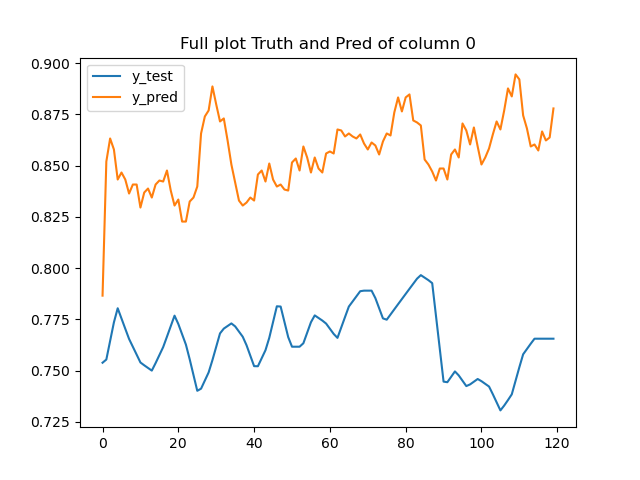
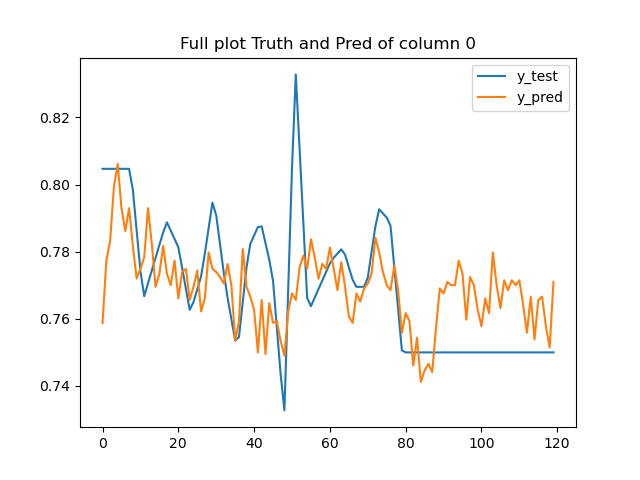
Improvements on patients check 11k_reader

diff --git a/train_final.py b/train_final.py
@@ -36,7 +36,7 @@ def train(total_epochs=250,
     :return:
     """
     warnings.filterwarnings("ignore")
-         
+
     with mlflow.start_run():  # separate run for each NN size and configuration
         
         mlflow.tensorflow.autolog()  # automatically starts logging LOSS, metric and models
@@ -54,7 +54,9 @@ def train(total_epochs=250,
         data_list = tl.unique(data_list) # sorts out multiple occurences
         # data, samplerate = tl.memorize("./data/training.h5", data_list)
         # data, samplerate = tl.memorize_MIT_data(data_list, length_item, 'training')
-        data, data_test, samplerate = tl.Icentia_memorize(100, length_item, data_list)
+        amount = 1000 # number of training examples
+        data, data_test, samplerate = tl.Icentia_memorize(amount, length_item, data_list)
+        mlflow.log_param("number of training examples", amount)
         # exit()
         
         # readjust length_item according to samplerate
@@ -123,14 +125,14 @@ def train(total_epochs=250,
         #                 "ECG_output": 'MAE',
         #                 }
         # Callback
-        escb = EarlyStopping(monitor='MAE', patience=min(int(total_epochs/10),50), min_delta=0.0005, mode="min") # 'Tacho_output_MAE' 'ECG_output_MAE' 'binary_accuracy'
-        # escb = EarlyStopping(monitor='Symbols_output_sparse_categorical_accuracy', patience=min(int(total_epochs/5),50), min_delta=0.001, mode="max", restore_best_weights=True)
+        # escb = EarlyStopping(monitor='MAE', patience=min(int(total_epochs/10),50), min_delta=0.0005, mode="min") # 'Tacho_output_MAE' 'ECG_output_MAE' 'binary_accuracy'
+        escb = EarlyStopping(monitor='Symbols_output_sparse_categorical_accuracy', patience=min(int(total_epochs/5),50), min_delta=0.001, mode="max", restore_best_weights=True) # Symbols_output_
         
         # Train model on training set
         print("Training model...")
         model.fit(X,  # sequence we're using for prediction
                   y,  # sequence we're predicting
-                batch_size=int(np.shape(X)[0] / 2**3), # how many samples to pass to our model at a time
+                batch_size= 2**9,# int(np.shape(X)[0] / 2**3), # how many samples to pass to our model at a time
                 callbacks=[escb], # callback must be in list, otherwise mlflow.autolog() breaks
                 epochs=total_epochs)
         
@@ -207,7 +209,7 @@ def train(total_epochs=250,
             for k in range(len(y_pred)):
                 # Full visuzilation
                 plt.figure(k)
-                plt.title(concat("Truth and Pred of column ", str(k)))
+                plt.title(concat("Truth and Pred of column " + str(k), " of example " + str(l)))
                 plt.plot(list(range(len(y_test[k][0,:]))), y_test[k][example,:])
                 plt.plot(list(range(len(y_pred[k][0,:]))), y_pred[k][example,:])
                 if "ECG" in out_types[k]:
@@ -218,7 +220,7 @@ def train(total_epochs=250,
                 plt.close()
                 # Zoom visualization
                 plt.figure(k)
-                plt.title(concat("Truth and Pred of column ", str(k)))
+                plt.title(concat("Truth and Pred of column " + str(k), " of example " + str(k)))
                 plt.plot(list(range(len(y_test[k][0,-2*samplerate:]))), y_test[k][example,-2*samplerate:])
                 plt.plot(list(range(len(y_pred[k][0,-2*samplerate:]))), y_pred[k][example,-2*samplerate:])
                 if "ECG" in out_types[k]:
@@ -227,4 +229,11 @@ def train(total_epochs=250,
                 name = "./plots/Plot-Col-" + str(k) + "-example-Zoom-" + str(l)
                 plt.savefig(name)
                 plt.close()
-        
+                
+            # plot Input
+            plt.figure(2)
+            plt.title(concat("Input of example ", str(l)))
+            plt.plot(list(range(len(X_test[0,:]))), X_test[example,:])
+            name = "./plots/Plot-Input-example-" + str(l)
+            plt.savefig(name)
+            plt.close()

diff --git a/Icentia11k_reader.py b/Icentia11k_reader.py
@@ -42,6 +42,7 @@ def download(amount):
     
     print("Preparing list of segments ...")
     list_segments = set() # list of all segments
+    list_patients = set() # set of all patients
     # Loading ever expanding set of existing segments
     if os.path.exists(local_path + "set_records.txt"):
         print("Load set records ...")
@@ -49,7 +50,7 @@ def download(amount):
             lines = f.readlines()
             for r in range(len(lines)):
                 list_segments.add(lines[r].rstrip('\n'))
-    
+                list_patients.add(lines[r][:-5].rstrip('\n'))
     print("Downloading training files ...")
     print("Listing available segments of interest ...")
     check_download = True
@@ -65,7 +66,8 @@ def download(amount):
                 if not(file_path in file_list_training): # check if file is already selected
                     # Download list of available segments of patient
                     # Check if table of segments for patient is already downloaded. Saving time in the long run
-                    if any([True for s in list_segments if '/p' + f"{patient_id:05d}" in s]):
+                    # if any([True for s in list_segments if '/p' + f"{patient_id:05d}" in s]):
+                    if 'p' + f"{patient_id:05d}" in list_patients:
                         print("Already downloaded")
                     else:
                         # print("Fresh download")
@@ -81,6 +83,7 @@ def download(amount):
                             records = f.readlines()
                             for r in range(len(records)):
                                 list_segments.add(records[r].rstrip('\n'))
+                                list_patients.add(lines[r][:-5].rstrip('\n'))
                     if 'p' + f"{patient_id:05d}" + '_s' + f"{ecg_id:02d}" in list_segments: # check if selected segment exists in records
                         file_list_training.append(file_path)
                         # print("Segment found")
@@ -208,6 +211,8 @@ def load_local(amount):
 
     print("Listing available segments of interest ...")
     file_list_test = []
+    counter = 0
+    missing_test = 0 # counter for how many test patients couldnt be found
     for n in range(int(max([1,amount*0.2]))):
         check = True
         while check: # loop until unused path found
@@ -218,6 +223,12 @@ def load_local(amount):
                 if not(any([file_path[:6] in path for path in file_list_training])): # check if patient is already in training set
                     file_list_test.append(file_path)
                     check = False
+                else:
+                    counter += 1
+                if counter > 999: # check if list of non-training patients is exhausted
+                    missing_test += 1
+                    print("No patients left for test. Need ", str(int(amount*0.2-missing_test)), " more test patients")
+                    break
     
     return file_list_training, file_list_test
 
@@ -314,7 +325,7 @@ def load_clean_data(list_training, length_item):
     with mp.Pool(mp.cpu_count()) as pool:
         results = pool.starmap(snippet_search, [(file, length_item) for file in list_training])
     
-    for n in range(np.shape(results)[0]): # loop over outputs of snippet search
+    for n in range(len(results)): # loop over outputs of snippet search
         for m in range(np.shape(results[n][0])[0]):
             train_data.append(results[n][0][m])
             train_beats.append(results[n][1][m])
@@ -384,6 +395,6 @@ def snippet_search(file, length_item):
                 train_data.append(ecg[offset:offset+500+int(length_item)]/50)
                 train_beats.append(beats)
                 train_BBI.append(BBI)
-                offset += int(5*60*250)
+                offset += int(length_item)
         offset += int(10*250)
     return train_data, train_beats, train_BBI

diff --git a/train_lib_final.py b/train_lib_final.py
@@ -165,7 +165,10 @@ def Icentia_memorize(amount, length_item, data_list):
     os.chdir(dname)
     local_path = os.getcwd() + '/data/Icentia11k/'
     
-    # list_training, list_test = Ird.download(amount) # download files of ecgs and annotations
+    # for n in range(5):
+    #     list_training, list_test = Ird.download(amount) # download files of ecgs and annotations
+    #     del list_training, list_test
+    # exit()
     list_training, list_test = Ird.load_local(amount) # list local files of ecgs and annotations
     
     print("Reading ecg and annotations ...")
@@ -295,7 +298,10 @@ def constr_feat(data, NAME, length_item):
         for lag in NAME[key]: # loop over lags and options found under key
             feat_number += 1
             # check if data is timeseries, distribution or parameter
-            print("Shape of source data for feature ", key, " : ", np.shape(data[key]))
+            try:
+                print("Shape of source data for feature ", key, " : ", np.shape(data[key]))
+            except:
+                pass
             print("feature: lag ", int(lag[4:]), "at column ", feat_number) # lag is in given in samples / datapoints
             
             if key == 'ECG': # check if feature is ECG timeseries
@@ -434,12 +440,13 @@ def feat_check(X,y):
     Plots the different features of input and output in one diagramm
     Helps with deciding if features are reasonable and correct
     """
+    example = []
     for k in range(5):
-        example = min(k, len(X[:,0]))
+        example.append(np.random.randint(len(X[:,0])))
         # print(np.shape(X))
         plt.figure(1)
         # plt.title("ECG with 5 minute duration")
-        plt.plot(list(range(len(X[k,:]))), X[k,:])
+        plt.plot(list(range(len(X[k,-2000:]))), X[k,-2000:])
         plt.savefig("Test-X-" +str(k) +".png")
         plt.close()
     
@@ -448,13 +455,13 @@ def feat_check(X,y):
             plt.figure(2+n+len(y)*k)
             if isinstance(y[n], list):
                 # example = np.random.randint(len(y[n][:]))
-                example = min(k, len(y[n][:]))
-                data = y[n][example]
+                # example = min(k, len(y[n][:]))
+                data = y[n][example[k]]
             else:
                 # print(np.shape(y[n]))
                 # example = np.random.randint(len(y[n][:,0]))
-                example = min(k, len(y[n][:,0]))
-                data = y[n][example,:]
+                # example = min(k, len(y[n][:,0]))
+                data = y[n][example[k],:]
             plt.plot(list(range(len(data))), data)
             plt.title("Test-y-column-" + str(n) + "-example-"+ str(example))
             plt.savefig("Test-y-" + str(n) + "-example-"+ str(k) +".png")
@@ -744,7 +751,7 @@ def calc_symboldynamics(BBI): #beat_to_beat_intervals, a, mode
     for row in range(len(BBI[:])): # loop over examples
         # insert one-dim array from list into matlab function
         # function returns us symbols and words as output
-        result = engine.calc_symboldynamics(BBI[row], 0.01, "movdiff", nargout=2)
+        result = engine.calc_symboldynamics(BBI[row], 0.01, "movdiff", nargout=2) # vielleicht mit alpha 0.05 probieren
         flatten = [result[1][n][0] for n in range(len(result[1]))] # flatten the list of matlab.doubles
         # print(np.array(flatten,dtype=int))
         symbols.append(np.array(flatten,dtype=int))

diff --git a/laboratory.py b/laboratory.py
@@ -13,7 +13,7 @@ from train_final import train
 
 
 # Set experiment active or create new one
-experiment = mlflow.set_experiment("Models for Forschungsbeleg - Tacho + Symbol - Icentia") # Conv-AE-LSTM-P good
+experiment = mlflow.set_experiment("Models for Forschungsbeleg - Tacho - Icentia") # Conv-AE-LSTM-P good
 print("Experiment_id: {}".format(experiment.experiment_id))
 
 # Starting a Run by calling train.py
@@ -31,7 +31,7 @@ train(NNsize=int(2**7),
       total_epochs=200, 
       length_item= 30,# 2**6, # Minimum 4 seconds. Because calc_symbols needs at leat 2 beats. in seconds
       # INPUT_name = {"symbols": ["lag 0"]},
-      OUTPUT_name = {'Tacho': ["lag 0"]}, # 'Tacho': ["lag 0"], 'symbolsC': ["lag 0"]}, # 'parametersTacho': ["lag 0"]},# 'symbolsC': ["lag 0"], "words": ["lag 0"]}, "ECG": ["lag 0"], 'Tacho': ["lag 0"]
+      OUTPUT_name = {'Tacho': ["lag 0"], 'symbolsC': ["lag 0"]}, # 'Tacho': ["lag 0"], 'symbolsC': ["lag 0"]}, # 'parametersTacho': ["lag 0"]},# 'symbolsC': ["lag 0"], "words": ["lag 0"]}, "ECG": ["lag 0"], 'Tacho': ["lag 0"]
       Arch = "Conv-AE-LSTM-P") # "LSTM-AE") "maxKomp-Conv-AE-LSTM-P")# 
 
 # for N in range(16,18,1):

diff --git a/PTB_reader.py b/PTB_reader.py
@@ -1,0 +1,34 @@
+import numpy as np
+import os
+import scipy
+import wfdb
+
+def divide_chunks(l, n):
+    """divides length of l into intervals of n until l is not long enough"""
+    for i in range(0, len(l), n):
+        yield l[i:i+n]
+        
+#returns the ecg lead 1 in 2 second intervals
+def load_data(path, sample_rate, T_or_T):
+    """ Memorizes ecg data and preprocesses for injection into RNN preprocessing
+    MIT-BIH time series are half hour long
+    
+    We read only MLII channels as ecg signal
+    Additionally we construct a timeseries of R-peaks in samples with a samplerate of 256 Hz.
+    For this we use the annotations time series
+    
+    ecgs have artifacts and are not suitable for training
+    preprocessing needed in dataset construction
+    
+    Input:
+        path: string. Path of ECG data
+        sample_rate: int. samplerate for injection
+        T_or_T: str. Training or Test set
+        
+    Output:
+        data: np.array. ecg timeseries of 30min with 256Hz samplerate
+        peaks: np.array. timeseries with r-peaks marked as int(3)
+        train_BBI: list. BBI in ms
+        """
+    
+    
